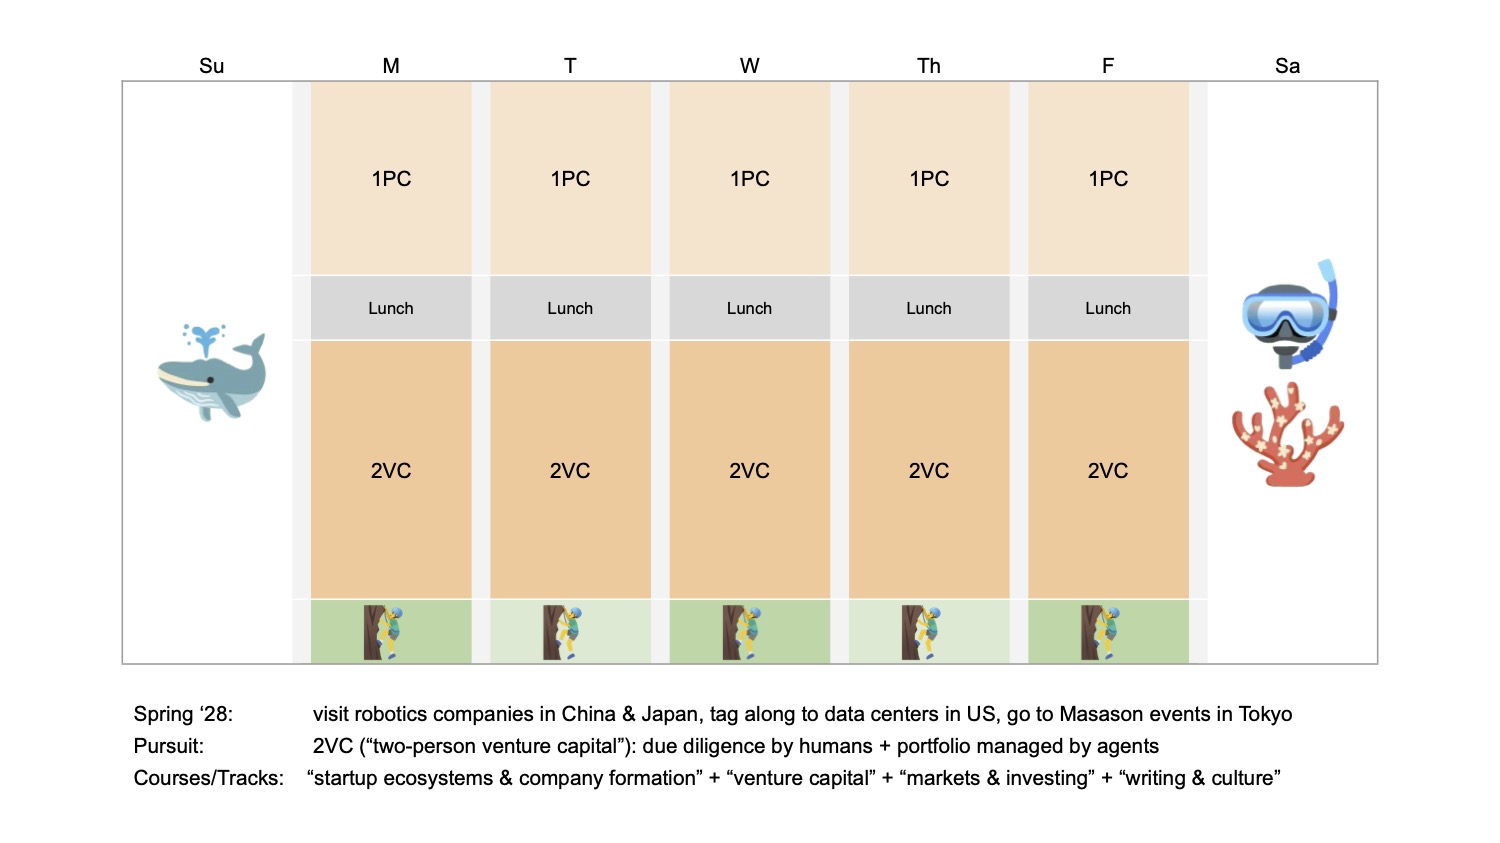
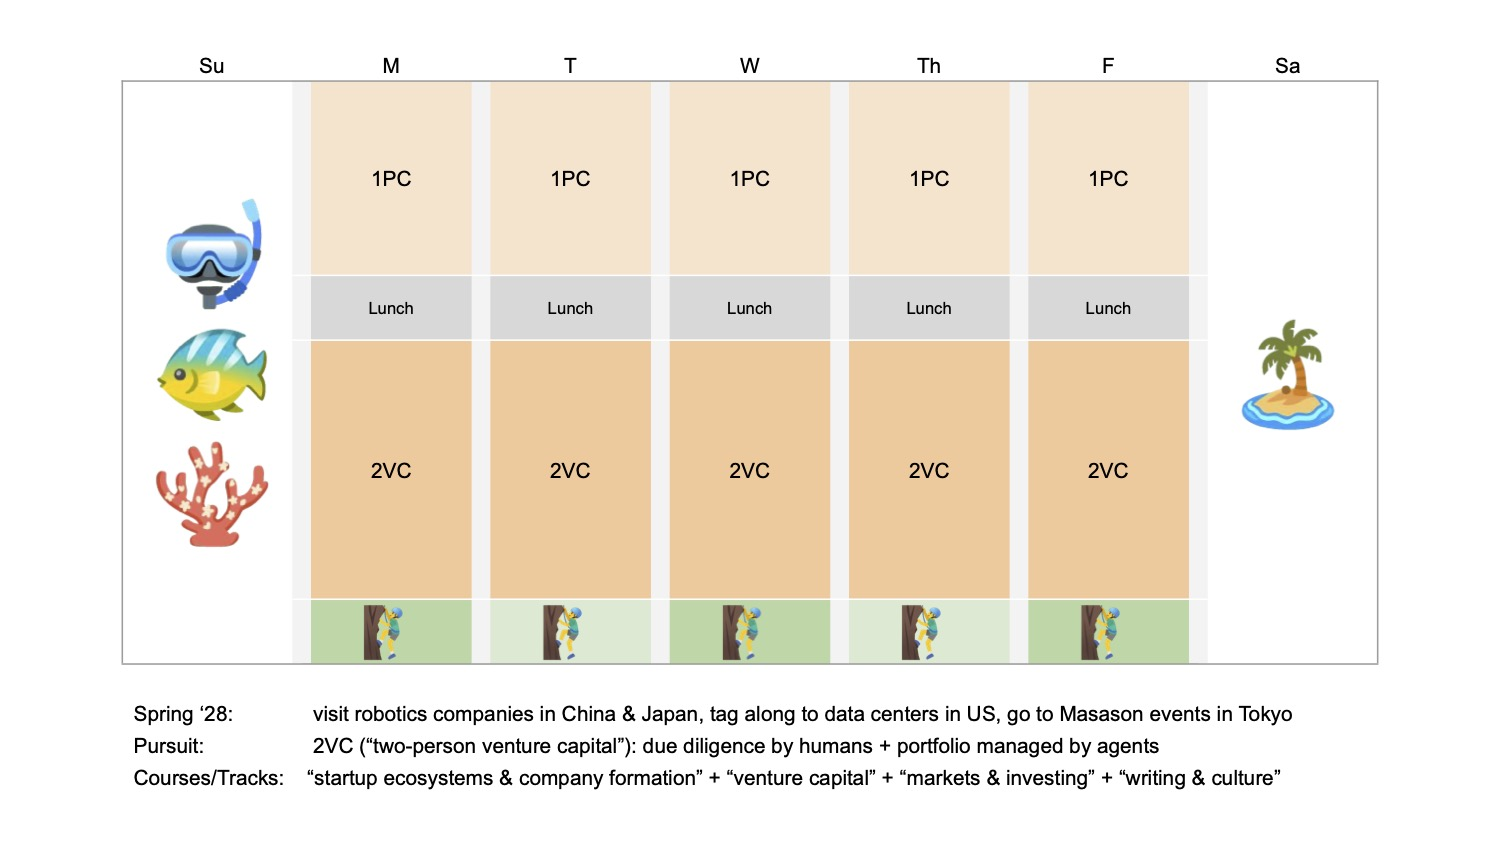
schedule

Changed region(s): [[0.092, 0.2467, 0.184, 0.4935], [0.7973, 0.3084, 0.92, 0.586], [0.092, 0.5243, 0.184, 0.6477]]

diff --git a/_projects/ongoing.md b/_projects/ongoing.md
@@ -15,7 +15,7 @@ The following sections show: (i) project planning and progression in reverse chr
 
 ---
 
-***P.S.*** The biggest challenge for me as a senior, of course, is juggling Proof School and Watney and iGEM @ BioCurios Lab, making time for bouldering at Dogpatch or Hyperion while trying not to forget my student ambassador role for Cal's pre-college program, and squeezing out time for my 🪱 project in between submitting applications to colleges and to *[The Academy](https://theacademysf.com/)*, whose yearlong program may look something like this (capped by a 3-month summer internship at a local VC firm):
+***P.S.*** The biggest challenge for me as a senior, of course, is juggling Proof School and Watney and iGEM @ BioCurios Lab, making time for bouldering at Dogpatch or Hyperion while trying not to forget my student ambassador role for Cal's pre-college program, and squeezing out time for my 🪱 project in between submitting applications to colleges and to *[The Academy](https://theacademysf.com/)*, whose yearlong program may be organized into fall/spring capped with summer co-op (ideally at a local VC firm for me):
 
 <div class="row">
     <div class="col-sm-6 mt-3 mt-md-0">

diff --git a/_pages/projects.md b/_pages/projects.md
@@ -2,7 +2,7 @@
 layout: page
 title: projects
 permalink: /projects/
-description: Builder Profile - (1) founding intern of a three-year-old robotics startup in San Francisco with over $100 million raised; (2) solid build experience from increasingly ambitious biomechanical engineering projects over the past four years; and (3) recently began a new quest to solve a 15-year-old computational neuroscience puzzle with C. elegans on OpenWorm 🪱 🔍 👀
+description: My Builder Profile - (1) founding intern of a three-year-old robotics startup in San Francisco with over $100 million raised; (2) biomechanical build expertise from increasingly ambitious engineering projects over the past four years; and (3) recently began a quest to solve 15-year-old computational neuroscience puzzle with C. elegans on OpenWorm 🪱 🔍 👀
 nav: true
 nav_order: 2
 display_categories: [side quests (2023–present), stem fairs (2023–2025), starting line]
